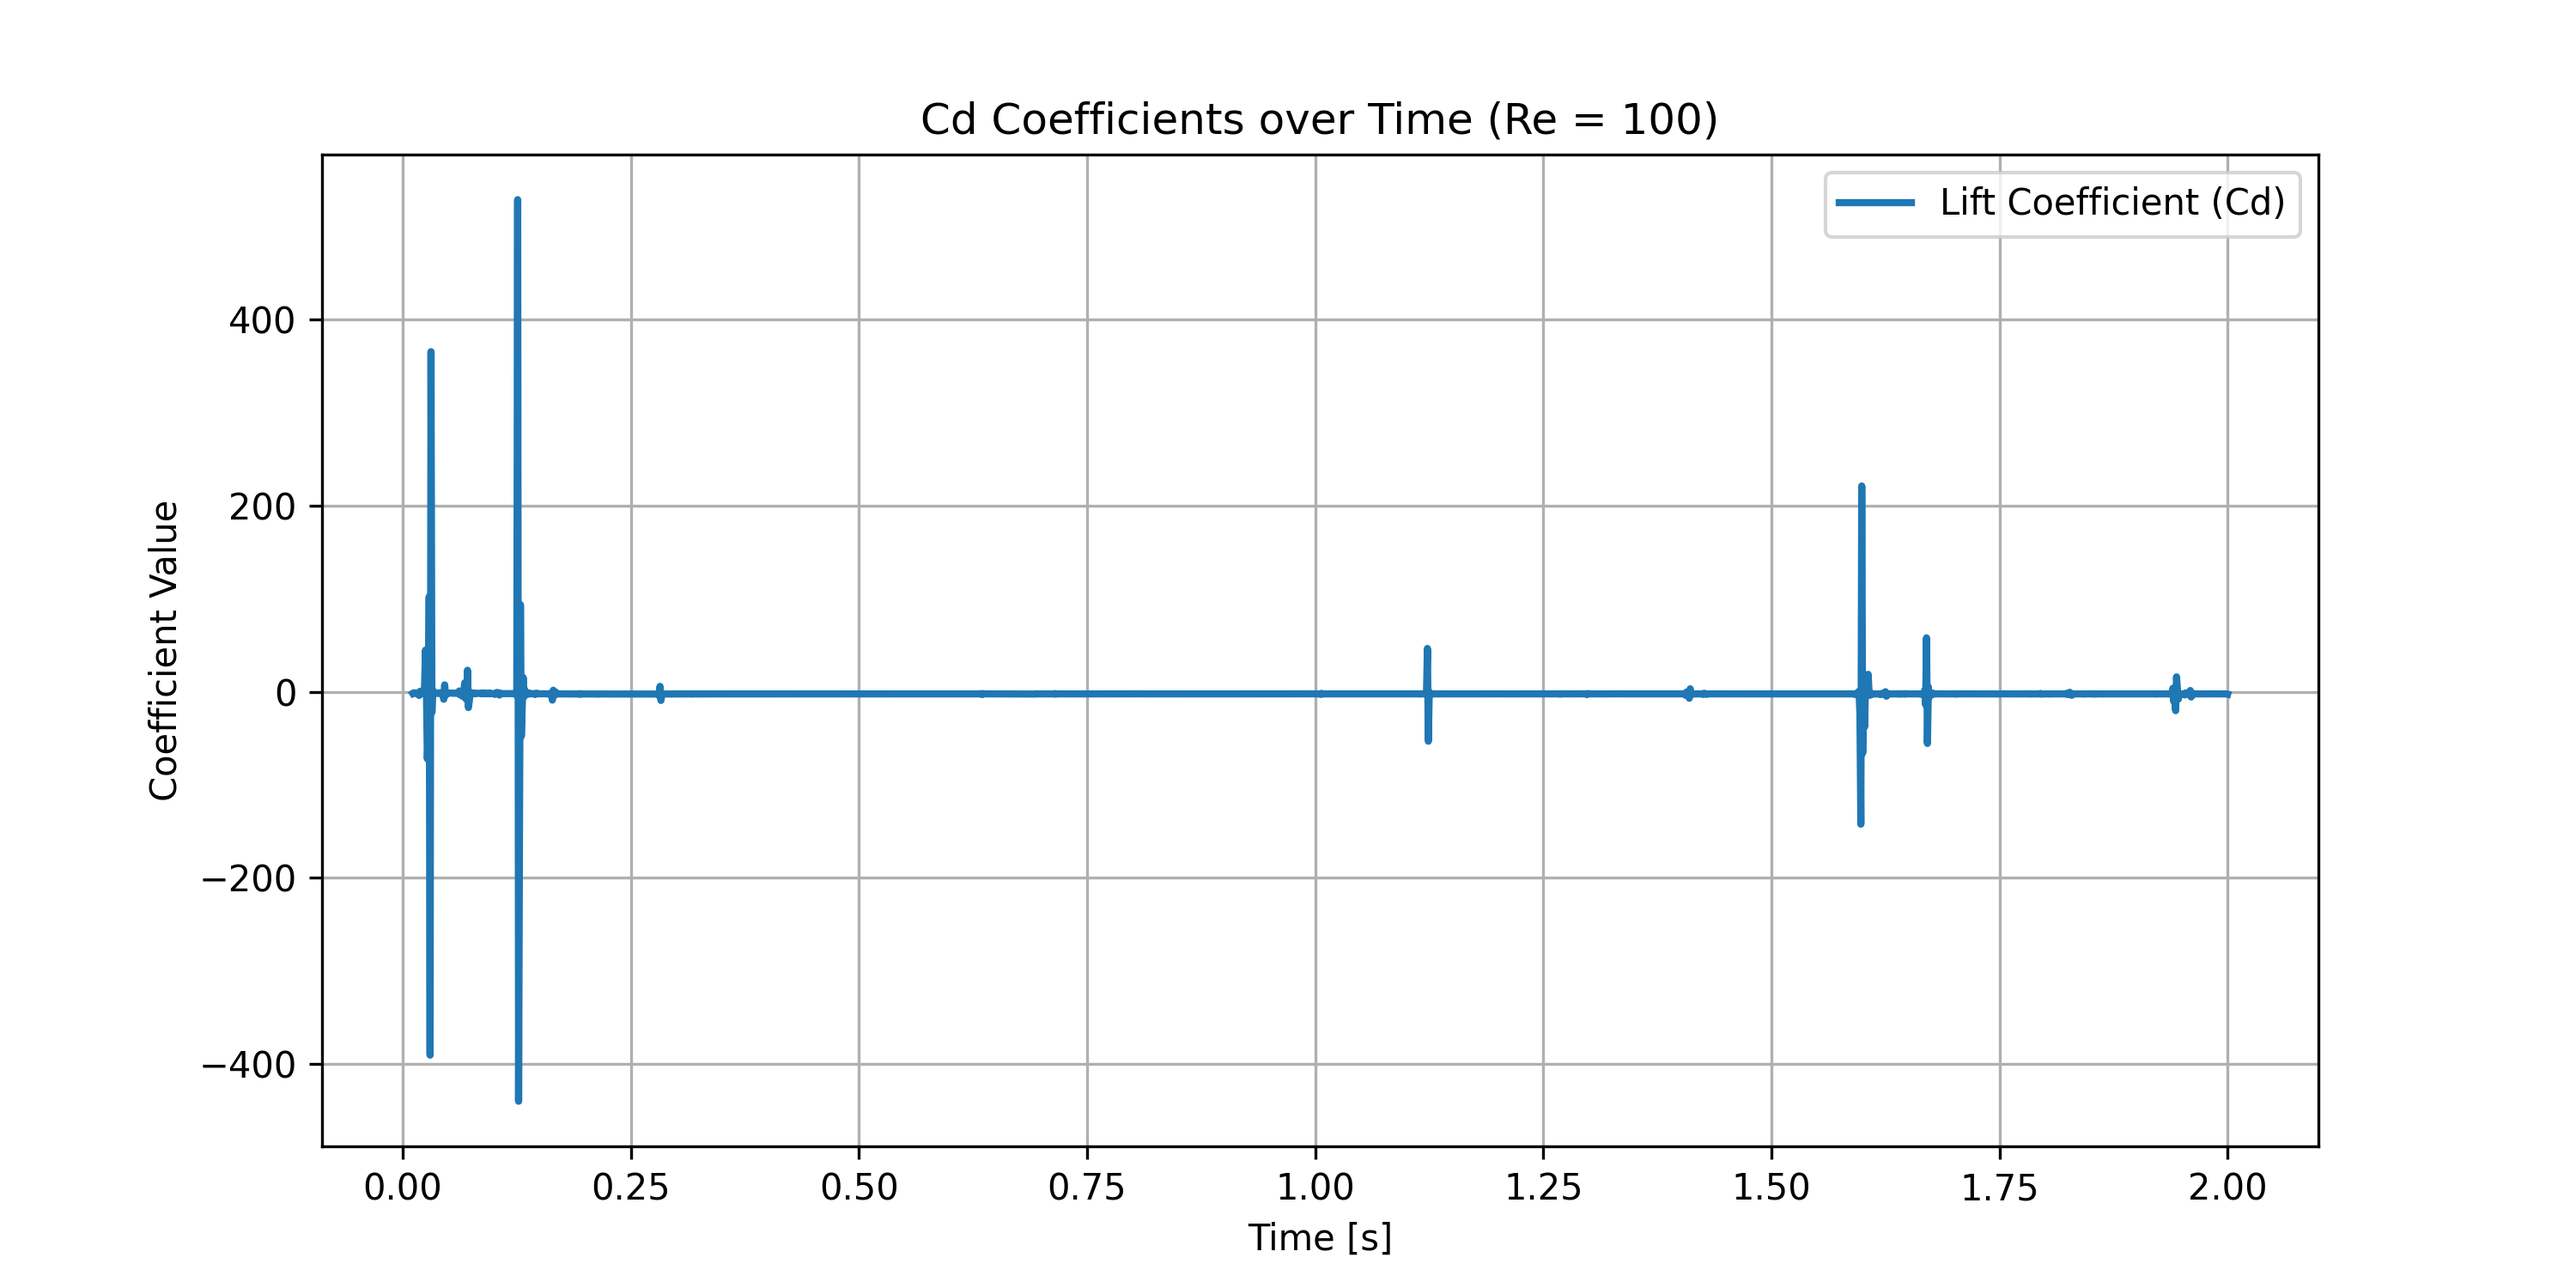
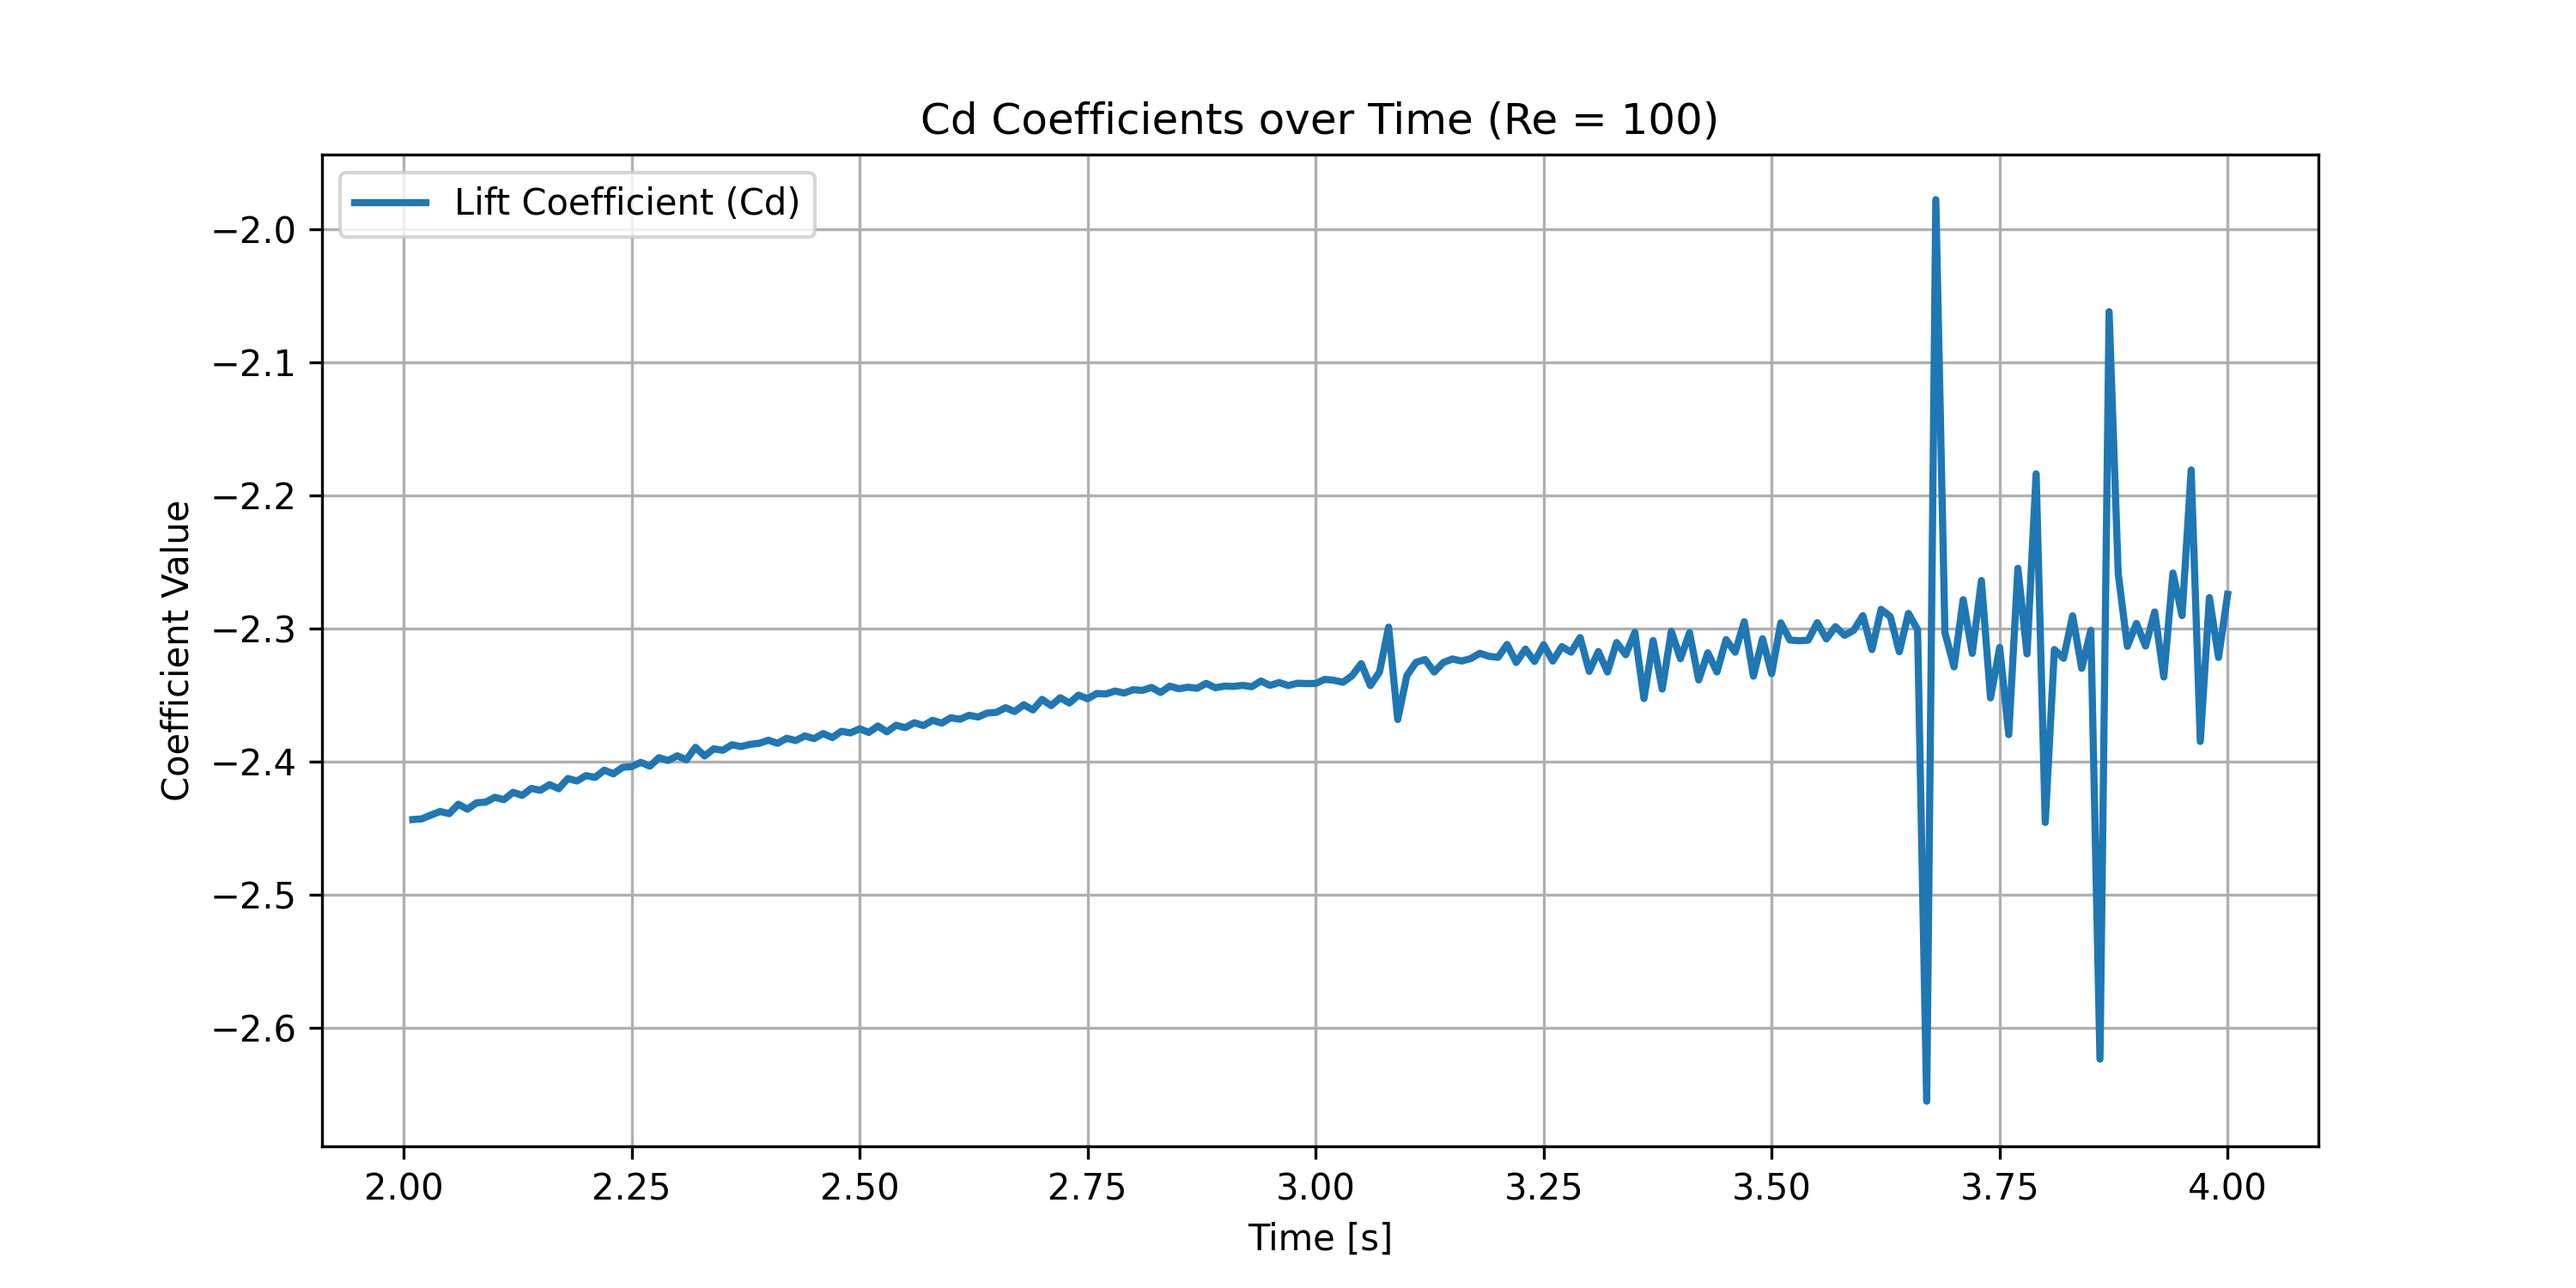
feat: added settings for 2D test case 3 feat: added 3D test case 1, also changed name into CMakeList

Changed region(s): [[0.062, 0.1227, 0.899, 0.8587], [0.093, 0.2453, 0.124, 0.3067]]

diff --git a/src/NavierStokes3D.cpp b/src/NavierStokes3D.cpp
@@ -1,12 +1,12 @@
-#include "NavierStokes.hpp"
+#include "NavierStokes3D.hpp"
 
 
 void
-NavierStokes::setup()
+NavierStokes3D::setup()
 {
   // Import the mesh
   {
-    pcout << "Importing the mesh from " << mesh_file_name << std::endl;
+    pcout << "Importing the mesh from " << mesh_file_name << " with dim " << dim << std::endl;
 
     Triangulation<dim> mesh_serial; 
     GridIn<dim> grid_in;
@@ -131,7 +131,7 @@ NavierStokes::setup()
 }
 
 void
-NavierStokes::assemble(const double &time)
+NavierStokes3D::assemble(const double &time)
 {
 
   const unsigned int dofs_per_cell = fe->dofs_per_cell;
@@ -327,7 +327,7 @@ NavierStokes::assemble(const double &time)
   }
 }
 
-void NavierStokes::set_re_number(int Re)
+void NavierStokes3D::set_re_number(int Re)
 {
   pcout << "-----------------------------------" << std::endl;
   double U = inlet_velocity.get_mean_vel();
@@ -338,7 +338,7 @@ void NavierStokes::set_re_number(int Re)
 
 
 void
-NavierStokes::solve_time_step()
+NavierStokes3D::solve_time_step()
 {
   auto start_time = std::chrono::high_resolution_clock::now();
   SolverControl solver_control(500, 1e-6 * system_rhs.l2_norm());
@@ -392,7 +392,7 @@ NavierStokes::solve_time_step()
 
 
 void
-NavierStokes::output(const unsigned int &time_step) const
+NavierStokes3D::output(const unsigned int &time_step) const
 {
   TrilinosWrappers::MPI::BlockVector solution_ghost(block_owned_dofs,
     block_relevant_dofs,
@@ -431,7 +431,7 @@ NavierStokes::output(const unsigned int &time_step) const
 
 
 void
-NavierStokes::solve(unsigned int time_step)
+NavierStokes3D::solve(unsigned int time_step)
 {
   //assemble_matrices();
 
@@ -474,7 +474,7 @@ NavierStokes::solve(unsigned int time_step)
     pcout << "n = " << std::setw(3) << time_step << ", t = " << std::setw(5)
       << time << ":" << std::flush;
 
-    nu = (inlet_velocity.get_mean_vel() * std::sin(M_PI * time / 8) * Diameter) / 100;
+    // nu = (inlet_velocity.get_mean_vel() * std::sin(M_PI * time / 8) * Diameter) / 100;
     assemble(time);
     solve_time_step();
     compute_forces(time);
@@ -492,7 +492,7 @@ NavierStokes::solve(unsigned int time_step)
 }
 
 void
-NavierStokes::export_data(const unsigned int &time_step)
+NavierStokes3D::export_data(const unsigned int &time_step)
 {
   // For now it works in singlecore
   // I'll try to fix it using the ghost of the vector
@@ -565,7 +565,7 @@ NavierStokes::export_data(const unsigned int &time_step)
 
 
 void
-NavierStokes::compute_ordered_dofs_indices()
+NavierStokes3D::compute_ordered_dofs_indices()
 {
   // We need this function to make possible to restart from a certain time
   // step and for post processing
@@ -781,7 +781,7 @@ NavierStokes::compute_ordered_dofs_indices()
 
 
 void
-NavierStokes::import_data(const unsigned int &time_step)
+NavierStokes3D::import_data(const unsigned int &time_step)
 {
 
   unsigned int local_size = solution.locally_owned_size();
@@ -802,7 +802,7 @@ NavierStokes::import_data(const unsigned int &time_step)
 
 
 void 
-NavierStokes::post_process(const unsigned int &initial_time_step,
+NavierStokes3D::post_process(const unsigned int &initial_time_step,
     const unsigned int &final_time_step, const unsigned int &step)
 {
   pcout << "======================================================="
@@ -825,7 +825,7 @@ NavierStokes::post_process(const unsigned int &initial_time_step,
 
 
 void
-NavierStokes::compute_forces(const double &time)
+NavierStokes3D::compute_forces(const double &time)
 {
   pcout << "Computing forces: " << std::endl;
 
@@ -882,6 +882,7 @@ NavierStokes::compute_forces(const double &time)
             Tensor<1, dim> tangent;
             tangent[0] = ny;
             tangent[1] = -nx;
+            tangent[2] = 0;
 
             ldrag += nu * fe_face_values.normal_vector(q) * current_velocity_gradients[q] * tangent * ny * fe_face_values.JxW(q);
 
@@ -898,10 +899,10 @@ NavierStokes::compute_forces(const double &time)
   drag = Utilities::MPI::sum(ldrag, MPI_COMM_WORLD);
   lift = Utilities::MPI::sum(llift, MPI_COMM_WORLD);
 
-  double U = inlet_velocity.get_mean_vel() * std::sin(M_PI * time / 8);         // Velocità media in ingresso
+  double U = inlet_velocity.get_mean_vel();         // Velocità media in ingresso
 
-  cd = 2 * drag / (U * U * Diameter);
-  cl = 2 * lift / (U * U * Diameter);
+  cd = 2 * drag / (U * U * Diameter * 0.41);
+  cl = 2 * lift / (U * U * Diameter * 0.41);
 
   pcout << "Drag coefficient (Cd): " << cd << "   Lift coefficient (Cl): " << cl << std::endl;
   pcout << "---------------------------------------------------" << std::endl;
@@ -910,7 +911,7 @@ NavierStokes::compute_forces(const double &time)
 
 
 void
-NavierStokes::PreconditionASIMPLE::initialize(
+NavierStokes3D::PreconditionASIMPLE::initialize(
   const TrilinosWrappers::SparseMatrix &F_,
   const TrilinosWrappers::SparseMatrix &B_,
   const TrilinosWrappers::SparseMatrix &Bt_,
@@ -942,7 +943,7 @@ NavierStokes::PreconditionASIMPLE::initialize(
 
 
 void
-NavierStokes::PreconditionASIMPLE::vmult(
+NavierStokes3D::PreconditionASIMPLE::vmult(
   TrilinosWrappers::MPI::BlockVector &dst,
   const TrilinosWrappers::MPI::BlockVector &src
 ) const
@@ -974,7 +975,7 @@ NavierStokes::PreconditionASIMPLE::vmult(
 
 
 void
-NavierStokes::PreconditionAYosida::initialize(
+NavierStokes3D::PreconditionAYosida::initialize(
   const TrilinosWrappers::SparseMatrix &F_,
   const TrilinosWrappers::SparseMatrix &B_,
   const TrilinosWrappers::SparseMatrix &Bt_,
@@ -1000,7 +1001,7 @@ NavierStokes::PreconditionAYosida::initialize(
 
 
 void
-NavierStokes::PreconditionAYosida::vmult(
+NavierStokes3D::PreconditionAYosida::vmult(
   TrilinosWrappers::MPI::BlockVector &dst,
   const TrilinosWrappers::MPI::BlockVector &src
 ) const

diff --git a/src/NavierStokes3D.hpp b/src/NavierStokes3D.hpp
@@ -49,10 +49,10 @@ using FE_Type = FE_SimplexP<Dim>;
 template<size_t Dim>
 using Q_Type = QGaussSimplex<Dim>;
 
-class NavierStokes
+class NavierStokes3D
 {
 public:
-  static constexpr unsigned int dim = 2;
+  static constexpr unsigned int dim = 3;
 
   class ForcingTerm : public Function<dim>
   {
@@ -79,7 +79,7 @@ public:
       for (unsigned int i = 0; i < dim + 1; ++i)
         values[i] = 0.0;
 
-      values[0] = 4 * U_m * p[1] * (H- p[1]) * std::sin(M_PI * get_time()/ 8) / (H * H);
+      values[0] = 16.0 * U_m * p[1] * p[2] * (H- p[1]) * (H- p[2]) / (H * H * H * H);
 
     }
 
@@ -88,7 +88,7 @@ public:
     {
       if (component == 0)
       {
-        return 4 * U_m * p[1] * (H - p[1]) * std::sin(M_PI * get_time()/ 8) / (H * H);
+        return 16.0 * U_m * p[1] * p[2] * (H- p[1]) * (H- p[2]) / (H * H * H * H);
       }
       else
         return 0.0;
@@ -96,11 +96,11 @@ public:
 
     double get_mean_vel()
     {
-      return 2 * U_m / 3;
+      return 4.0 * U_m / 9.0;
     }
 
     protected:
-      double U_m = 1.5;
+      double U_m = 0.45;
       double H = 0.41;
 
   };
@@ -153,7 +153,7 @@ public:
 
 
 
-  NavierStokes(const std::string &mesh_file_name_,
+  NavierStokes3D(const std::string &mesh_file_name_,
     const unsigned int &degree_velocity_,
     const unsigned int &degree_pressure_,
     const double &deltat_,
@@ -254,7 +254,7 @@ protected:
 };
 
 
-class NavierStokes::PreconditionIdentity
+class NavierStokes3D::PreconditionIdentity
 {
 public:
 // Application of the preconditioner: we just copy the input vector (src)
@@ -270,7 +270,7 @@ protected:
 };
 
 
-class NavierStokes::PreconditionASIMPLE
+class NavierStokes3D::PreconditionASIMPLE
 {
 public:
   // Application of the preconditioner: we just copy the input vector (src)
@@ -304,7 +304,7 @@ protected:
 
 
 
-class NavierStokes::PreconditionAYosida
+class NavierStokes3D::PreconditionAYosida
 {
 public:
   // Application of the preconditioner: we just copy the input vector (src)

diff --git a/src/main.cpp b/src/main.cpp
@@ -1,18 +1,20 @@
 #include <iostream>
-#include "NavierStokes.hpp"
+// #include "NavierStokes2D.hpp"
+#include "NavierStokes3D.hpp"
 
 
 int main(int argc, char **argv)
 {
   Utilities::MPI::MPI_InitFinalize mpi_init(argc, argv);
 
-  const std::string mesh_file_name("../mesh/domain2D.msh");
+  // const std::string mesh_file_name("../mesh/domain2D.msh");
+  const std::string mesh_file_name("../mesh/domain3D.msh");
   const unsigned int degree_velocity = 2;
   const unsigned int degree_pressure = 1;
 
 
-  NavierStokes problem(mesh_file_name, degree_velocity, degree_pressure, 0.001, 2.0, 2); // last numbers: deltat, T, step
-  problem.set_re_number(100);
+  NavierStokes3D problem(mesh_file_name, degree_velocity, degree_pressure, 0.01, 2.0, 2); // last numbers: deltat, T, step
+  problem.set_re_number(20);
   problem.setup();
   problem.compute_ordered_dofs_indices();
   problem.solve(0);
